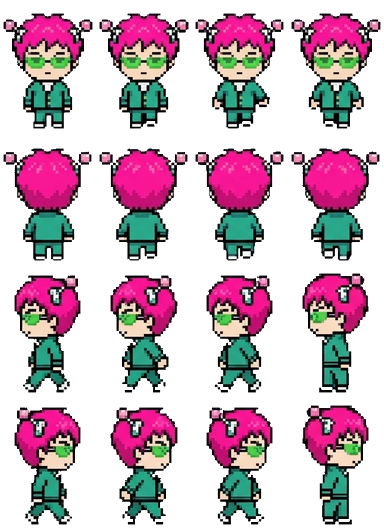
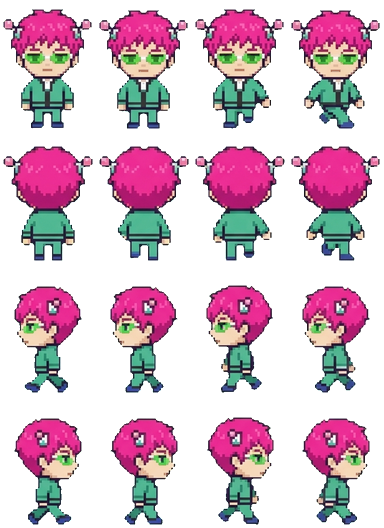
Redraw Saiki Kusuo in the shared art style; keep green lenses on green sheets
Claude-Session: https://claude.ai/code/session_01KaPsBYLrtbRfMYNG2xeBCK

diff --git a/docs/app.js b/docs/app.js
@@ -75,7 +75,7 @@ function spr(cat, k, col, sc) {
   return `<div class="clip" style="width:${it[2] * sc}px;height:${it[3] * sc}px;POS"><img class="px" src="assets/decor/${cat}.png" alt="" style="width:${S.sw * sc}px;height:${S.sh * sc}px;margin-left:${-col * S.cw * sc}px;margin-top:${-i * S.ch * sc}px"></div>`;
 }
 const icon = (k, sz) => `<span class="itm" style="width:${sz}px;height:${sz}px"><img class="px" src="assets/ui/items.png" alt="" style="width:${IT.length * sz}px;height:${sz}px;margin-left:${-ITM[k].i * sz}px"></span>`;
-const face = (id, w) => { const s = w / 96; return `<img class="px" src="assets/ch/${id}.webp?v=48" alt="" style="position:absolute;width:${384 * s}px;height:${528 * s}px;left:${-(96 * s - w) / 2}px;top:0;max-width:none">`; };
+const face = (id, w) => { const s = w / 96; return `<img class="px" src="assets/ch/${id}.webp?v=49" alt="" style="position:absolute;width:${384 * s}px;height:${528 * s}px;left:${-(96 * s - w) / 2}px;top:0;max-width:none">`; };
 
 // ---------- 저장 ----------
 let fb = null, user = null, S = null, saveT = null;
@@ -143,7 +143,7 @@ function sleepHTML(id, r, dy) {
   const pos = r.a && r.a[0] === 'bed' ? 'left:3%;bottom:20%' : r.b && r.b[0] === 'bed' ? 'right:3%;bottom:20%' : 'left:calc(50% - 44px);bottom:6%';
   const s = 36 / 96;
   return `<div style="position:absolute;width:88px;height:56px;${pos};z-index:${dy ? 4 : 5};${dy ? `transform:translate(12px,${dy}px)` : ''}"><div style="position:absolute;inset:0;filter:brightness(.22)">
-    <div style="position:absolute;left:11px;top:1px;width:36px;height:50px;overflow:hidden;transform:rotate(-90deg)"><img class="px" src="assets/ch/${id}.webp?v=48" alt="" style="width:${384 * s}px;height:${528 * s}px;max-width:none;margin-top:${-132 * s}px"></div>
+    <div style="position:absolute;left:11px;top:1px;width:36px;height:50px;overflow:hidden;transform:rotate(-90deg)"><img class="px" src="assets/ch/${id}.webp?v=49" alt="" style="width:${384 * s}px;height:${528 * s}px;max-width:none;margin-top:${-132 * s}px"></div>
     <div style="position:absolute;left:19px;top:19px;width:67px;height:29px;border:2px solid var(--ink);border-radius:8px 6px 4px 4px;background:#8ccff5;background-image:repeating-linear-gradient(90deg,transparent 0 10px,rgba(255,255,255,.5) 10px 13px)"></div></div>
     ${dy ? '' : '<span class="emo" style="left:8px;top:-22px;color:#5b6bd6">Z z z</span>'}</div>`;
 }
@@ -153,8 +153,8 @@ function roomHTML(id, o, scale) {
     <div class="floor" style="background-color:${PAL[r.fc][1]};background-image:${tileUrl('floor', r.fl)}"></div>
     ${slot('deco', r.dc, 'left:6%;top:6%')}${slot('furn', r.a, 'left:3%;bottom:20%')}${slot('furn', r.b, 'right:3%;bottom:20%')}${slot('prop', r.pr, 'left:28%;bottom:4%;z-index:2')}
     ${id && o.sleeping && g ? sleepHTML(g, r, -16) : ''}${id && o.sleeping ? sleepHTML(id, r) : ''}${id && o.job ? `<div style="position:absolute;left:50%;top:38%;transform:translateX(-50%);z-index:5;background:#fff;border:3px solid var(--ink);border-radius:10px;padding:6px 10px;font-size:11px;text-align:center;line-height:1.5"><img src="assets/ui/ic_job.png" alt="" style="width:18px;vertical-align:-4px"> ${WORK[id] ? WORK[id][1] : esc(JOB_NAME[id]) + ' 알바 중'}${g ? `<br><small>${esc(nameOf(g))}도 같이</small>` : ''}<br><b id="jobleft">${timeLeft(o.job.until)}</b></div>` : ''}
-    ${id ? `<div class="shadow" id="shd" ${o.sleeping || o.job ? 'style="display:none"' : ''}></div><div class="man" id="man" ${o.sleeping || o.job ? 'style="display:none"' : ''}><img class="px" src="assets/ch/${id}.webp?v=48" alt="${esc(nameOf(id))}"></div><span class="emo" id="emo" hidden></span><span class="mumble" id="mum" hidden></span>` : ''}
-    ${g ? `<div class="shadow" id="gshd" ${hideG}></div><div class="man" id="gman" ${hideG}><img class="px" src="assets/ch/${g}.webp?v=48" alt="${esc(nameOf(g))}"></div><span class="emo" id="gemo" hidden></span><span class="mumble gmum" id="gmum" hidden></span>` : ''}
+    ${id ? `<div class="shadow" id="shd" ${o.sleeping || o.job ? 'style="display:none"' : ''}></div><div class="man" id="man" ${o.sleeping || o.job ? 'style="display:none"' : ''}><img class="px" src="assets/ch/${id}.webp?v=49" alt="${esc(nameOf(id))}"></div><span class="emo" id="emo" hidden></span><span class="mumble" id="mum" hidden></span>` : ''}
+    ${g ? `<div class="shadow" id="gshd" ${hideG}></div><div class="man" id="gman" ${hideG}><img class="px" src="assets/ch/${g}.webp?v=49" alt="${esc(nameOf(g))}"></div><span class="emo" id="gemo" hidden></span><span class="mumble gmum" id="gmum" hidden></span>` : ''}
     ${o.sleeping ? `<div class="night"></div><div class="sleepleft">쿨쿨 · 일어나기까지 <b id="sleepleft">${timeLeft(wakeAt(o)).replace(' 남음', '')}</b></div>` : ''}
   </div>`;
 }
@@ -167,7 +167,7 @@ function meterHTML(o) {
 const ic = (act, img, label, pressed) => `<button class="ic" data-act="${act}" ${pressed ? 'aria-pressed="true"' : ''}><img src="assets/ui/ic_${img}.png?v=2" alt="">${label}</button>`;
 
 let dropStyle = null; const cheat = {};
-const APP_V = 120, COUPONS = { NINOGUYA: 3000 };
+const APP_V = 121, COUPONS = { NINOGUYA: 3000 };
 // 쿠폰 입력 정리: 한글 자판 상태로 친 글자(ㅜㅑㅜㅐ혀ㅛㅁ)도 영어 자판 글자로 바꾸고, 대소문자·띄어쓰기·마침표는 무시해요
 const KEY = { ㄱ: 'r', ㄲ: 'R', ㄴ: 's', ㄷ: 'e', ㄸ: 'E', ㄹ: 'f', ㅁ: 'a', ㅂ: 'q', ㅃ: 'Q', ㅅ: 't', ㅆ: 'T', ㅇ: 'd', ㅈ: 'w', ㅉ: 'W', ㅊ: 'c', ㅋ: 'z', ㅌ: 'x', ㅍ: 'v', ㅎ: 'g',
   ㅏ: 'k', ㅐ: 'o', ㅑ: 'i', ㅒ: 'O', ㅓ: 'j', ㅔ: 'p', ㅕ: 'u', ㅖ: 'P', ㅗ: 'h', ㅘ: 'hk', ㅙ: 'ho', ㅚ: 'hl', ㅛ: 'y', ㅜ: 'n', ㅝ: 'nj', ㅞ: 'np', ㅟ: 'nl', ㅠ: 'b', ㅡ: 'm', ㅢ: 'ml', ㅣ: 'l',
@@ -407,7 +407,7 @@ function startTrip(k) {
   if (tg) lines[1] = `${nameOf(tg)}: ${withHim(sub(pick(GLX(tg).trip), o, c.n), tg)}`;
   const n = (FR[id] || [4, 4, 4, 4])[3], el = document.createElement('div'); el.className = 'tripview';
   el.innerHTML = `<div class="tsay"> </div><div class="tstage" style="background-image:url(assets/travel/${k}.png?v=2)"><div class="tplace">${esc(c.n)}</div>
-    <div class="twalker"><img class="px" src="assets/ch/${id}.webp?v=48" alt=""></div>${tg ? `<div class="twalker tgirl"><img class="px" src="assets/ch/${tg}.webp?v=48" alt=""></div>` : ''}<span class="emo tjoy">♪</span></div>
+    <div class="twalker"><img class="px" src="assets/ch/${id}.webp?v=49" alt=""></div>${tg ? `<div class="twalker tgirl"><img class="px" src="assets/ch/${tg}.webp?v=49" alt=""></div>` : ''}<span class="emo tjoy">♪</span></div>
     <div class="tbar"><i></i></div><button class="btn white tskip" data-tskip="1">바로 돌아오기</button>`;
   document.body.appendChild(el);
   const gimg = el.querySelector('.tgirl img'), gn = tg ? (FR[tg] || [4, 4, 4, 4])[3] : 1;
@@ -636,7 +636,7 @@ setInterval(() => { if (S && user) { tickTime(); save(); } }, 60000);
     if (nv > APP_V && !location.search.includes('u=' + nv)) { location.replace(location.pathname + '?u=' + nv); return; }
   } catch { }
   app.innerHTML = '<div class="start"><div class="egg"><div class="scr"></div></div><div class="note">불러오는 중....</div></div>';
-  const [c, t, f, it, mu, ct, tv, gl, sts] = await Promise.all(['data/chars.json', 'data/talk.json', 'data/frames.json', 'data/items.json', 'data/mumble.json', 'data/countries.json', 'data/travel.json', 'data/girls.json', 'data/sets.json'].map(u => fetch(u + '?v=120').then(r => r.ok ? r.json() : {})));
+  const [c, t, f, it, mu, ct, tv, gl, sts] = await Promise.all(['data/chars.json', 'data/talk.json', 'data/frames.json', 'data/items.json', 'data/mumble.json', 'data/countries.json', 'data/travel.json', 'data/girls.json', 'data/sets.json'].map(u => fetch(u + '?v=121').then(r => r.ok ? r.json() : {})));
   CH = c; CHM = Object.fromEntries(c.map(x => [x.id, x])); TALK = t; FR = f; IT = it; ITM = Object.fromEntries(it.map(x => [x.k, x])); MUM = mu; CTRY = ct; TRV = tv; GL = Array.isArray(gl) ? gl : []; SETS = Array.isArray(sts) ? sts : []; GLM = Object.fromEntries(GL.map(x => [x.id, x]));
   try { await initFirebase(); } catch (e) { console.warn('Firebase 연결 실패, 기기 저장으로', e); fb = null; }
   if (fb) {

diff --git a/docs/index.html b/docs/index.html
@@ -18,6 +18,6 @@
 <main id="app" aria-live="polite"></main>
 <div id="toast" role="status" hidden></div>
 <script src="firebase-config.js?v=3"></script>
-<script type="module" src="app.js?v=120"></script>
+<script type="module" src="app.js?v=121"></script>
 </body>
 </html>

diff --git a/tk_magenta.py b/tk_magenta.py
@@ -59,12 +59,18 @@ def strip_white(out):
         al &= ~rm
     out[..., 3] = np.where(al, 255, 0); return out
 
+KEEP_LENS = {'saiki_v2'}   # 초록 렌즈 안경
 KEEP_PURPLE = {'nifuji'}   # 보라 넥타이처럼 분홍기 빼기에 지워지는 색이 있는 시트
 STRIP = {'chiyo'}   # 흰 테두리가 있는 시트 (흰 테두리 덕분에 분홍기 빼기도 필요 없어요: 보라 눈이 지워지지 않게)
 def cells(path, cols=5, rows=4):
     global NO_DESPILL
     st = any(k in path for k in STRIP); NO_DESPILL = st or any(k in path for k in KEEP_PURPLE)
     im = np.asarray(Image.open(path).convert('RGB')); H, W = im.shape[:2]; a = key(im); NO_DESPILL = False
+    if any(k in path for k in KEEP_LENS):   # 초록 배경 + 초록 렌즈: 얼굴 안에 갇힌 렌즈는 원래 색으로
+        al = a[..., 3] > 0; R, G, B = [im[..., i].astype(int) for i in range(3)]
+        pure = (G > 220) & (R < 60) & (B < 60)
+        filled = ndimage.binary_fill_holes(al) & (al | ~pure)
+        a[..., :3] = np.where((filled & ~al)[..., None], im, a[..., :3]); a[..., 3] = np.where(filled, 255, 0)
     if any(k in path for k in KEEP_PURPLE):   # 몸 안쪽에 갇힌 구멍(보라 넥타이 등)은 원래 색으로 채워요
         al = a[..., 3] > 0; R, G, B = [im[..., i].astype(int) for i in range(3)]
         pure = (R > 200) & (B > 200) & (G < 70)   # 팔 사이로 보이는 진짜 배경은 채우지 않아요
